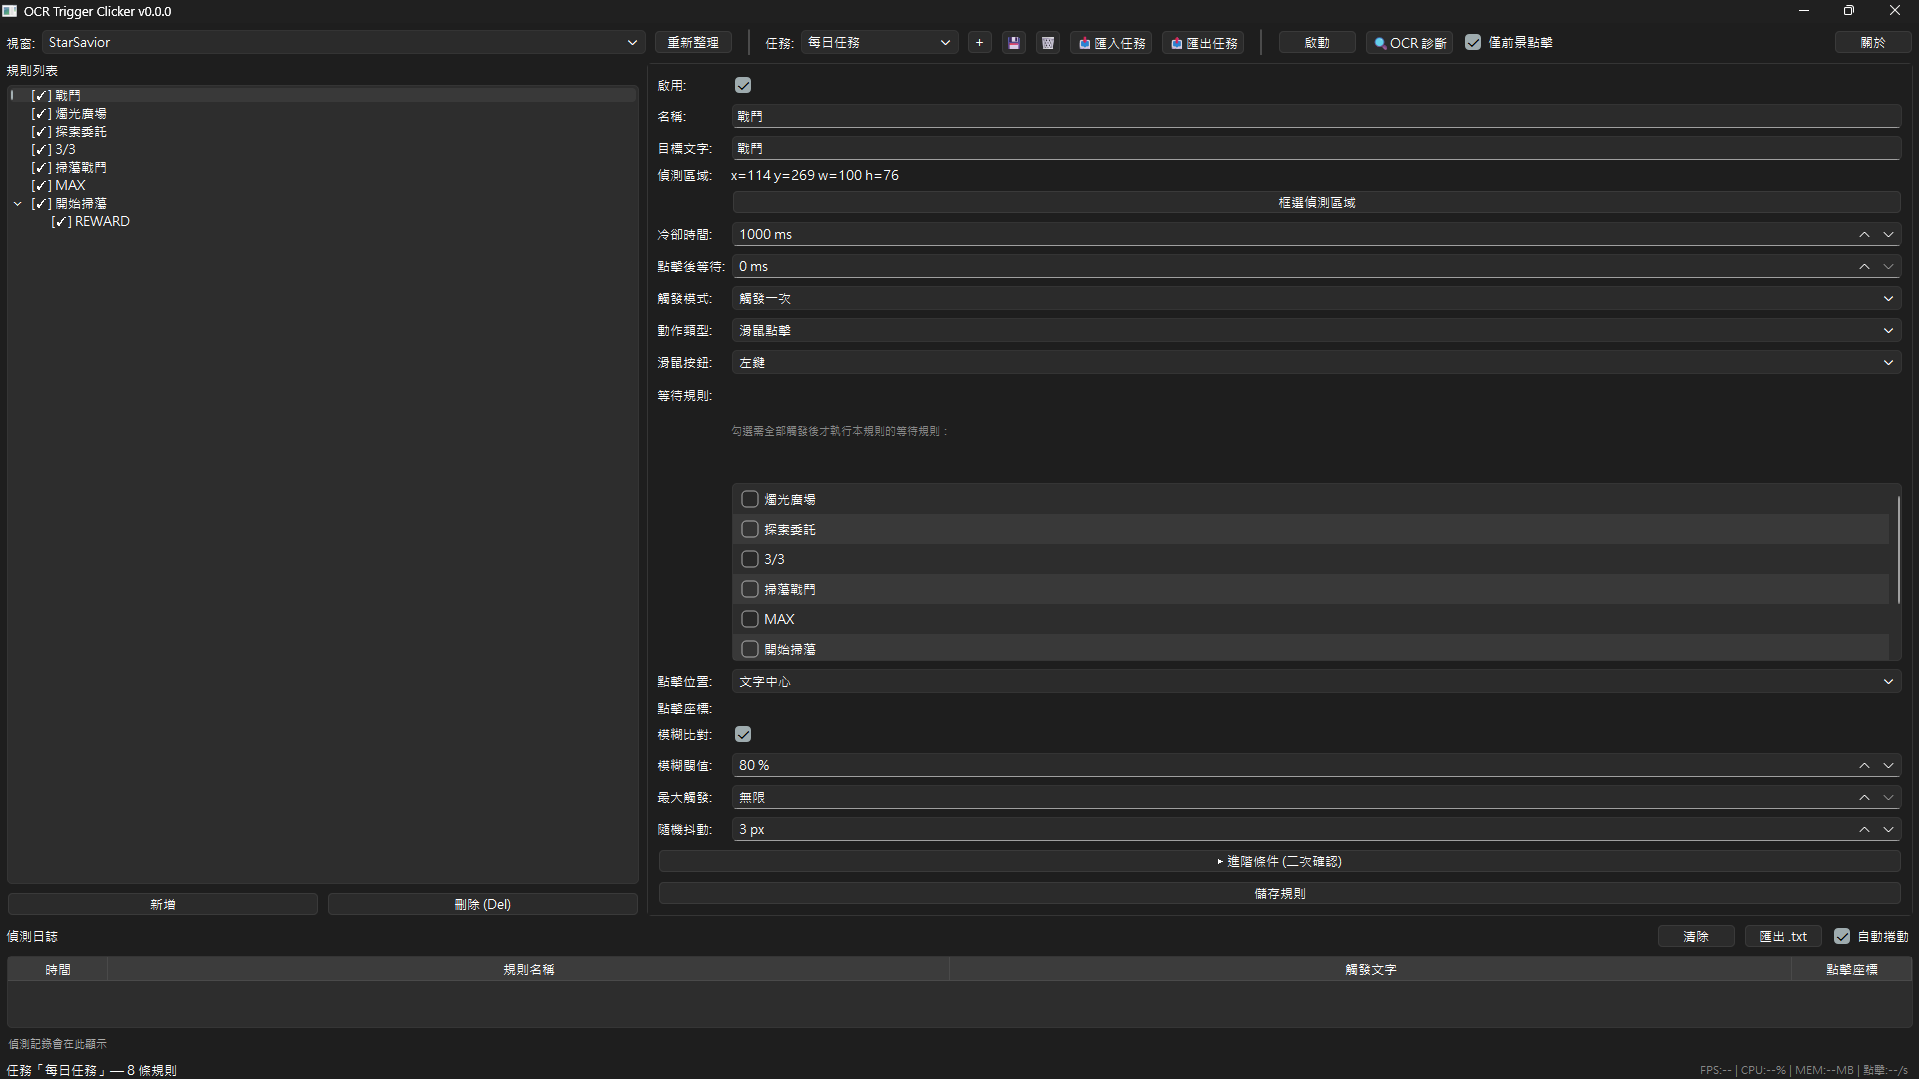
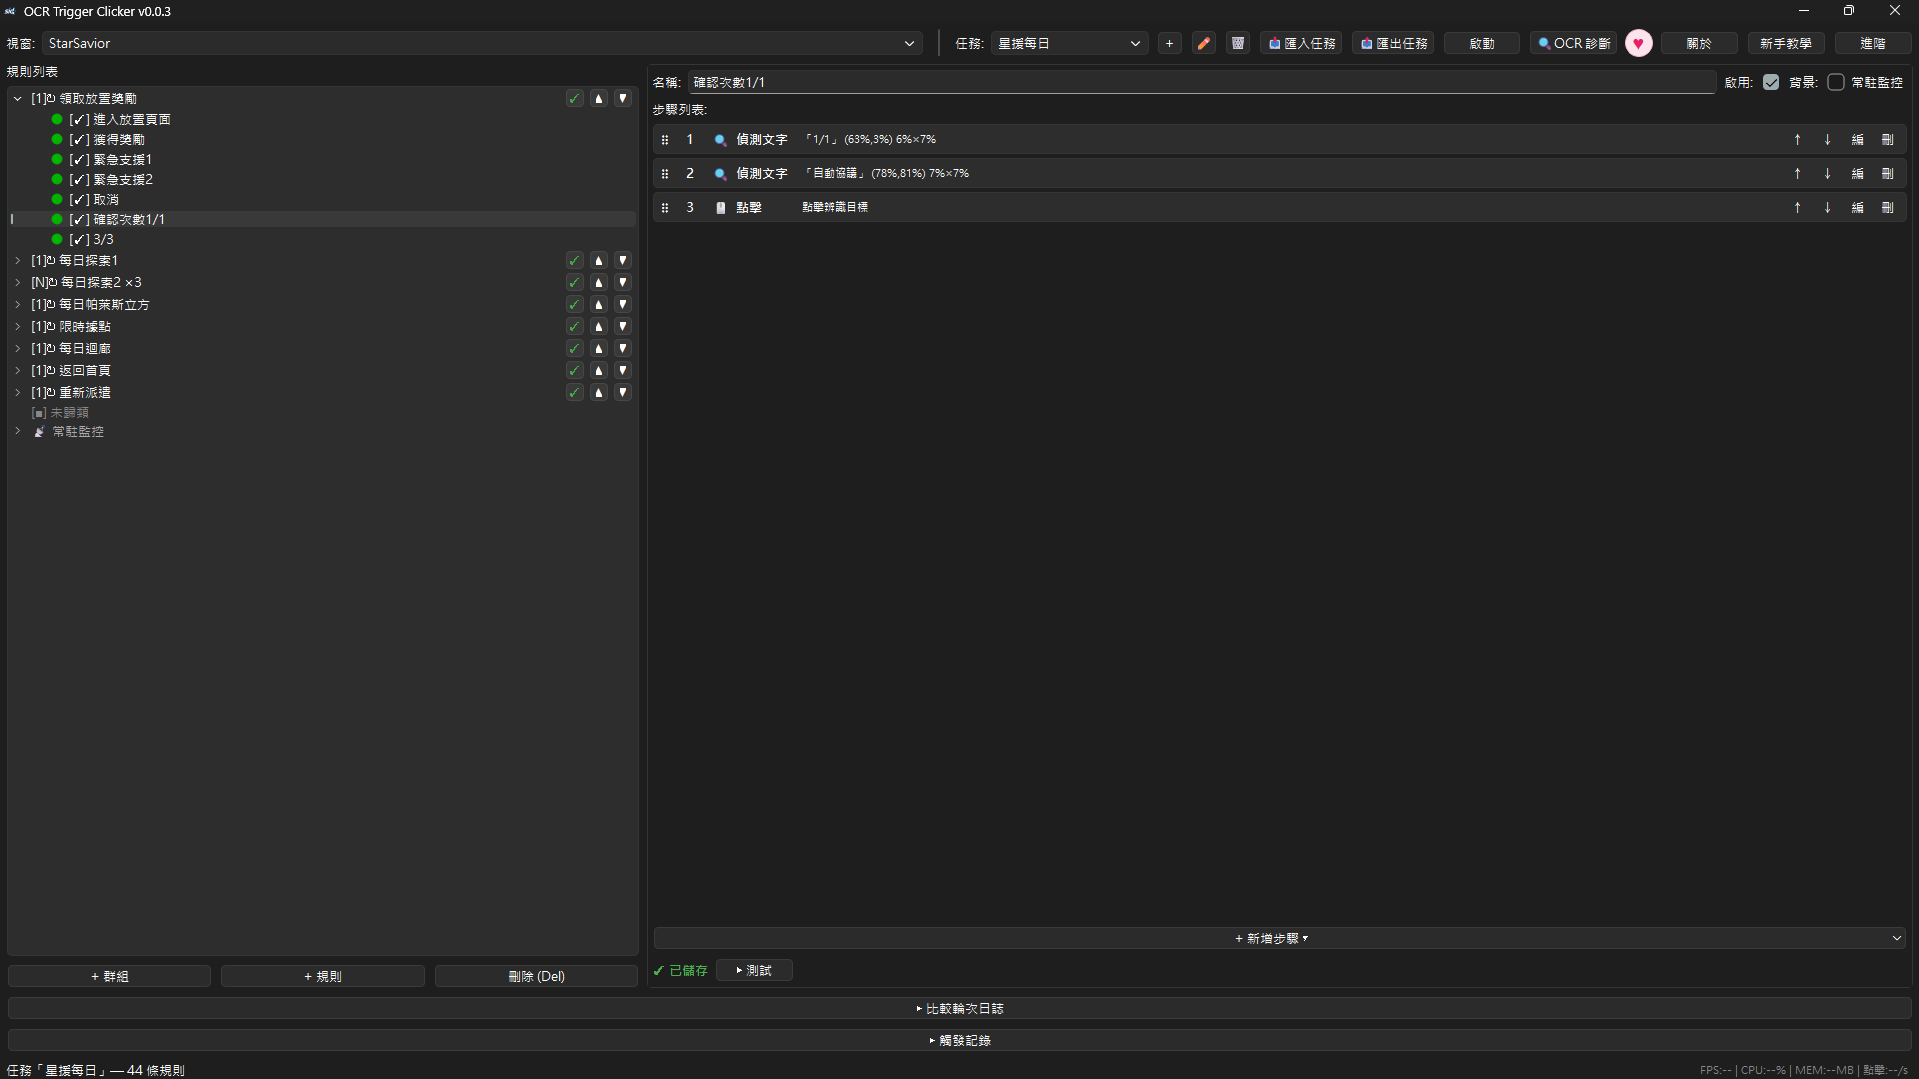
docs: 更新 v0.0.3，新增 match_image 說明與 gui2 截圖，修正 .gitignore images/ 路徑

diff --git a/docs/index.html b/docs/index.html
@@ -26,7 +26,7 @@
   "applicationCategory": "UtilityApplication",
   "description": "透過 OCR 文字辨識偵測螢幕特定文字，自動執行滑鼠點擊與鍵盤操作的 Windows 綠色工具。",
   "author": { "@type": "Person", "name": "Sid" },
-  "softwareVersion": "0.0.2",
+  "softwareVersion": "0.0.3",
   "license": "https://github.com/Sid-1996/ocr-trigger-clicker/blob/master/LICENSE",
   "offers": { "@type": "Offer", "price": "0", "priceCurrency": "TWD" }
 }
@@ -141,6 +141,8 @@
     <li><strong>系統托盤常駐</strong> — 關閉視窗縮小至系統托盤背景執行，可透過設定調整關閉行為或啟用關閉確認。</li>
     <li><strong>on_fail 通知</strong> — 步驟失敗時可發送系統通知並自動停止指定群組。</li>
     <li><strong>規則匯入／匯出</strong> — 任務可匯出為 JSON 檔，分享給他人或備份。</li>
+    <li><strong>圖示模板比對（match_image）</strong> — 以圖找圖，支援多尺度搜尋與 NMS 篩選，適合無文字的按鈕或圖示辨識。</li>
+    <li><strong>步驟層級失敗處理（on_fail）</strong> — 支援停止規則、按鍵、跳躍步驟、跳躍群組、系統通知等多種異常流程控制。</li>
   </ul>
 </section>
 
@@ -153,6 +155,10 @@
   <figure>
     <img class="screenshot" src="images/zh_ocr.png" alt="OCR 即時診斷功能 — 顯示視窗內所有可辨識文字、位置與信心度" loading="lazy">
     <figcaption style="font-size:.85em;color:#8b949e;">OCR 診斷面板：即時掃描視窗文字，輔助設定偵測區域</figcaption>
+  </figure>
+  <figure>
+    <img class="screenshot" src="images/gui2.png" alt="圖示模板比對 match_image 步驟設定 — 選取範本圖片、框選 ROI、設定門檻值與 on_fail 行為" loading="lazy">
+    <figcaption style="font-size:.85em;color:#8b949e;">圖示比對步驟：選取範本圖片、設定 ROI 與相似度門檻、on_fail 行為</figcaption>
   </figure>
 </section>
 
@@ -176,6 +182,7 @@
     <li><strong>縮小 ROI</strong>：偵測區域越小，OCR 速度越快，建議只框選包含目標文字的最小範圍。</li>
     <li><strong>使用 jump 步驟</strong>：在規則間跳轉（限同群組內），可實現條件分支流程。</li>
     <li><strong>使用 compare 步驟</strong>：對 ROI 內的數字做數值條件判斷（大於／小於／等於）。</li>
+    <li><strong>使用 match_image 步驟</strong>：載入範本圖片後框選偵測 ROI，適合無文字的按鈕或圖示。可在步驟內直接按「測試比對」確認是否命中。</li>
     <li><strong>常駐監控</strong>：適合用於錯誤攔截，不受群組順序影響，每幀獨立執行。</li>
     <li><strong>OCR 診斷模式</strong>：按下「OCR 診斷」可即時看到視窗中所有文字，幫助確認 ROI 位置是否正確。</li>
   </ul>
@@ -207,8 +214,8 @@
   <h3>OCR 辨識速度如何？</h3>
   <p>一般情況下每秒可處理 5–15 次，取決於 ROI 大小與 CPU/GPU 效能。支援 DirectML GPU 加速（需 DirectX 12 顯卡）。</p>
 
-  <h3>可以辨識圖示或圖片嗎？</h3>
-  <p>不行。本工具為純文字 OCR，不支援圖形比對。若需要圖形辨識，建議搭配其他工具使用。</p>
+  <h3>可以比對圖示或按鈕圖片嗎？</h3>
+  <p>可以。步驟類型選擇 <code>match_image</code>（圖像比對），載入範本圖片並設定相似度門檻，即可在 ROI 區域內以模板比對方式偵測圖示或按鈕位置。</p>
 
   <h3>多個規則可以同時執行嗎？</h3>
   <p>群組內的規則依序執行，一次只執行一條，觸發成功後才推進到下一條。常駐監控規則則每幀都會執行，不受群組順序影響。</p>